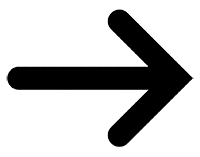
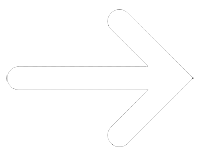
influencer section complet

Changed region(s): [[0.03, 0.051, 0.96, 0.9427]]

diff --git a/style.css b/style.css
@@ -7,3 +7,29 @@ body {
   justify-content: center;
   align-items: center;
 }
+.influeencer-info {
+  margin-right: 100px;
+}
+.influeencer-info li {
+  line-height: 1.5em;
+}
+.camera {
+  width: auto;
+}
+.button {
+  color: white;
+  text-decoration: none;
+  font-size: 1.2em;
+  background-color: green;
+  padding: 10px 15px;
+  border-radius: 20px;
+}
+.button img {
+  height: 15px;
+  align-items: center;
+}
+.button:hover img {
+  transform: translateX(20px);
+  transition: 1s;
+  padding: 0 20px;
+}

diff --git a/index.html b/index.html
@@ -29,6 +29,7 @@
                     <li>Optimize Your Bio and Profile.</li>
                     <li>Build Your Network and Nail Your Brand Pitch.</li>
                 </ol>
+                <a class="button" href="http://" type="button">Preebook now <img src="images/right-arow.png" alt=""></a>
             </div>
             <img src="images/main-camera.png" alt="" class="camera">
         </section>
